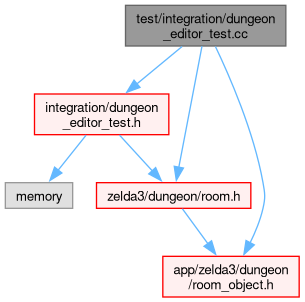
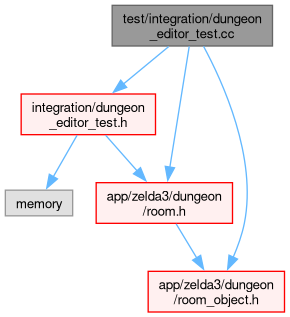
docs: update API documentation be7303ea5b73fdc7f19fa763a2191f4e53ff13f8

Changed region(s): [[0.0, 0.0, 0.9931, 1.0]]

diff --git a/d7/d87/dungeon__editor__test_8cc.html b/d7/d87/dungeon__editor__test_8cc.html
@@ -112,17 +112,17 @@ Include dependency graph for dungeon_editor_test.cc:</div>
 <div class="dyncontent">
 <div class="center"><img src="../../dc/d24/dungeon__editor__test_8cc__incl.png" border="0" usemap="#atest_2integration_2dungeon__editor__test_8cc" alt=""/></div>
 <map name="atest_2integration_2dungeon__editor__test_8cc" id="atest_2integration_2dungeon__editor__test_8cc">
-<area shape="rect" title=" " alt="" coords="126,5,286,46"/>
-<area shape="rect" href="../../d8/d90/dungeon__editor__test_8h.html" title=" " alt="" coords="35,94,169,135"/>
-<area shape="poly" title=" " alt="" coords="184,49,138,86,135,82,180,44"/>
-<area shape="rect" href="../../d9/dc0/room_8h.html" title=" " alt="" coords="97,183,251,208"/>
-<area shape="poly" title=" " alt="" coords="205,47,181,168,176,167,199,46"/>
-<area shape="rect" href="../../d0/dff/room__object_8h.html" title=" " alt="" coords="163,256,299,297"/>
-<area shape="poly" title=" " alt="" coords="218,45,243,105,256,143,266,182,266,209,253,244,248,242,260,208,260,183,251,145,238,107,213,48"/>
-<area shape="rect" title=" " alt="" coords="5,183,73,208"/>
-<area shape="poly" title=" " alt="" coords="88,137,60,172,56,169,84,133"/>
-<area shape="poly" title=" " alt="" coords="121,133,154,169,150,173,117,137"/>
-<area shape="poly" title=" " alt="" coords="185,207,210,242,206,245,180,210"/>
+<area shape="rect" title=" " alt="" coords="112,5,273,46"/>
+<area shape="rect" href="../../d8/d90/dungeon__editor__test_8h.html" title=" " alt="" coords="21,94,156,135"/>
+<area shape="poly" title=" " alt="" coords="170,49,125,86,122,82,167,44"/>
+<area shape="rect" href="../../d9/dc0/room_8h.html" title=" " alt="" coords="96,183,233,223"/>
+<area shape="poly" title=" " alt="" coords="192,47,173,168,167,167,187,46"/>
+<area shape="rect" href="../../d0/dff/room__object_8h.html" title=" " alt="" coords="148,271,285,312"/>
+<area shape="poly" title=" " alt="" coords="206,45,222,78,239,123,249,173,250,198,247,224,236,258,231,256,242,223,244,198,244,173,233,124,217,81,201,47"/>
+<area shape="rect" title=" " alt="" coords="5,190,73,216"/>
+<area shape="poly" title=" " alt="" coords="79,137,55,178,51,176,75,134"/>
+<area shape="poly" title=" " alt="" coords="108,133,139,169,135,173,104,137"/>
+<area shape="poly" title=" " alt="" coords="178,222,199,257,195,259,174,225"/>
 </map>
 </div>
 </div>

diff --git a/db/d30/sprite__editor_8cc_source.html b/db/d30/sprite__editor_8cc_source.html
@@ -104,7 +104,7 @@ $(document).ready(function(){initNavTree('db/d30/sprite__editor_8cc_source.html'
 <a href="../../db/d30/sprite__editor_8cc.html">Go to the documentation of this file.</a><div class="fragment"><div class="line"><a id="l00001" name="l00001"></a><span class="lineno">    1</span><span class="preprocessor">#include &quot;<a class="code" href="../../d7/d6f/sprite__editor_8h.html">sprite_editor.h</a>&quot;</span></div>
 <div class="line"><a id="l00002" name="l00002"></a><span class="lineno">    2</span> </div>
 <div class="line"><a id="l00003" name="l00003"></a><span class="lineno">    3</span><span class="preprocessor">#include &quot;<a class="code" href="../../dd/db2/performance__profiler_8h.html">app/gfx/performance/performance_profiler.h</a>&quot;</span></div>
-<div class="line"><a id="l00004" name="l00004"></a><span class="lineno">    4</span><span class="preprocessor">#include &quot;<a class="code" href="../../d1/d95/ui__helpers_8h.html">gui/ui_helpers.h</a>&quot;</span></div>
+<div class="line"><a id="l00004" name="l00004"></a><span class="lineno">    4</span><span class="preprocessor">#include &quot;<a class="code" href="../../d1/d95/ui__helpers_8h.html">app/gui/ui_helpers.h</a>&quot;</span></div>
 <div class="line"><a id="l00005" name="l00005"></a><span class="lineno">    5</span><span class="preprocessor">#include &quot;<a class="code" href="../../d0/dae/file__util_8h.html">util/file_util.h</a>&quot;</span></div>
 <div class="line"><a id="l00006" name="l00006"></a><span class="lineno">    6</span><span class="preprocessor">#include &quot;<a class="code" href="../../d4/d70/zsprite_8h.html">app/editor/sprite/zsprite.h</a>&quot;</span></div>
 <div class="line"><a id="l00007" name="l00007"></a><span class="lineno">    7</span><span class="preprocessor">#include &quot;<a class="code" href="../../da/d0c/arena_8h.html">app/gfx/arena.h</a>&quot;</span></div>

diff --git a/d4/dbe/graphics__editor_8cc_source.html b/d4/dbe/graphics__editor_8cc_source.html
@@ -108,7 +108,7 @@ $(document).ready(function(){initNavTree('d4/dbe/graphics__editor_8cc_source.htm
 <div class="line"><a id="l00005" name="l00005"></a><span class="lineno">    5</span><span class="preprocessor">#include &quot;absl/status/status.h&quot;</span></div>
 <div class="line"><a id="l00006" name="l00006"></a><span class="lineno">    6</span><span class="preprocessor">#include &quot;absl/status/statusor.h&quot;</span></div>
 <div class="line"><a id="l00007" name="l00007"></a><span class="lineno">    7</span><span class="preprocessor">#include &quot;absl/strings/str_cat.h&quot;</span></div>
-<div class="line"><a id="l00008" name="l00008"></a><span class="lineno">    8</span><span class="preprocessor">#include &quot;<a class="code" href="../../d1/d95/ui__helpers_8h.html">gui/ui_helpers.h</a>&quot;</span></div>
+<div class="line"><a id="l00008" name="l00008"></a><span class="lineno">    8</span><span class="preprocessor">#include &quot;<a class="code" href="../../d1/d95/ui__helpers_8h.html">app/gui/ui_helpers.h</a>&quot;</span></div>
 <div class="line"><a id="l00009" name="l00009"></a><span class="lineno">    9</span><span class="preprocessor">#include &quot;<a class="code" href="../../d0/dae/file__util_8h.html">util/file_util.h</a>&quot;</span></div>
 <div class="line"><a id="l00010" name="l00010"></a><span class="lineno">   10</span><span class="preprocessor">#include &quot;<a class="code" href="../../d3/df1/window_8h.html">app/core/window.h</a>&quot;</span></div>
 <div class="line"><a id="l00011" name="l00011"></a><span class="lineno">   11</span><span class="preprocessor">#include &quot;<a class="code" href="../../da/d0c/arena_8h.html">app/gfx/arena.h</a>&quot;</span></div>

diff --git a/d9/d47/message__editor_8cc_source.html b/d9/d47/message__editor_8cc_source.html
@@ -118,7 +118,7 @@ $(document).ready(function(){initNavTree('d9/d47/message__editor_8cc_source.html
 <div class="line"><a id="l00015" name="l00015"></a><span class="lineno">   15</span><span class="preprocessor">#include &quot;<a class="code" href="../../d4/dcf/canvas_8h.html">app/gui/canvas.h</a>&quot;</span></div>
 <div class="line"><a id="l00016" name="l00016"></a><span class="lineno">   16</span><span class="preprocessor">#include &quot;<a class="code" href="../../de/d12/style_8h.html">app/gui/style.h</a>&quot;</span></div>
 <div class="line"><a id="l00017" name="l00017"></a><span class="lineno">   17</span><span class="preprocessor">#include &quot;<a class="code" href="../../da/de5/rom_8h.html">app/rom.h</a>&quot;</span></div>
-<div class="line"><a id="l00018" name="l00018"></a><span class="lineno">   18</span><span class="preprocessor">#include &quot;<a class="code" href="../../de/ded/input_8h.html">gui/input.h</a>&quot;</span></div>
+<div class="line"><a id="l00018" name="l00018"></a><span class="lineno">   18</span><span class="preprocessor">#include &quot;<a class="code" href="../../de/ded/input_8h.html">app/gui/input.h</a>&quot;</span></div>
 <div class="line"><a id="l00019" name="l00019"></a><span class="lineno">   19</span><span class="preprocessor">#include &quot;imgui.h&quot;</span></div>
 <div class="line"><a id="l00020" name="l00020"></a><span class="lineno">   20</span><span class="preprocessor">#include &quot;imgui/misc/cpp/imgui_stdlib.h&quot;</span></div>
 <div class="line"><a id="l00021" name="l00021"></a><span class="lineno">   21</span><span class="preprocessor">#include &quot;<a class="code" href="../../d0/d84/hex_8h.html">util/hex.h</a>&quot;</span></div>

diff --git a/d1/dee/editor_2agent_2agent__chat__widget_8h_source.html b/d1/dee/editor_2agent_2agent__chat__widget_8h_source.html
@@ -118,7 +118,7 @@ $(document).ready(function(){initNavTree('d1/dee/editor_2agent_2agent__chat__wid
 <div class="line"><a id="l00015" name="l00015"></a><span class="lineno">   15</span><span class="preprocessor">#include &quot;<a class="code" href="../../db/d6c/advanced__routing_8h.html">cli/service/agent/advanced_routing.h</a>&quot;</span></div>
 <div class="line"><a id="l00016" name="l00016"></a><span class="lineno">   16</span><span class="preprocessor">#include &quot;<a class="code" href="../../df/dfb/agent__pretraining_8h.html">cli/service/agent/agent_pretraining.h</a>&quot;</span></div>
 <div class="line"><a id="l00017" name="l00017"></a><span class="lineno">   17</span><span class="preprocessor">#include &quot;<a class="code" href="../../d4/db3/prompt__manager_8h.html">cli/service/agent/prompt_manager.h</a>&quot;</span></div>
-<div class="line"><a id="l00018" name="l00018"></a><span class="lineno">   18</span><span class="preprocessor">#include &quot;<a class="code" href="../../dc/d8d/project_8h.html">core/project.h</a>&quot;</span></div>
+<div class="line"><a id="l00018" name="l00018"></a><span class="lineno">   18</span><span class="preprocessor">#include &quot;<a class="code" href="../../dc/d8d/project_8h.html">app/core/project.h</a>&quot;</span></div>
 <div class="line"><a id="l00019" name="l00019"></a><span class="lineno">   19</span> </div>
 <div class="line"><a id="l00020" name="l00020"></a><span class="lineno">   20</span><span class="keyword">namespace </span><a class="code hl_namespace" href="../../dc/d46/namespaceyaze.html">yaze</a> {</div>
 <div class="line"><a id="l00021" name="l00021"></a><span class="lineno">   21</span> </div>

diff --git a/d2/d24/dungeon__room__selector_8h_source.html b/d2/d24/dungeon__room__selector_8h_source.html
@@ -108,7 +108,7 @@ $(document).ready(function(){initNavTree('d2/d24/dungeon__room__selector_8h_sour
 <div class="line"><a id="l00005" name="l00005"></a><span class="lineno">    5</span><span class="preprocessor">#include &quot;imgui/imgui.h&quot;</span></div>
 <div class="line"><a id="l00006" name="l00006"></a><span class="lineno">    6</span><span class="preprocessor">#include &quot;<a class="code" href="../../da/de5/rom_8h.html">app/rom.h</a>&quot;</span></div>
 <div class="line"><a id="l00007" name="l00007"></a><span class="lineno">    7</span><span class="preprocessor">#include &quot;<a class="code" href="../../d1/d8a/room__entrance_8h.html">app/zelda3/dungeon/room_entrance.h</a>&quot;</span></div>
-<div class="line"><a id="l00008" name="l00008"></a><span class="lineno">    8</span><span class="preprocessor">#include &quot;<a class="code" href="../../d9/dc0/room_8h.html">zelda3/dungeon/room.h</a>&quot;</span></div>
+<div class="line"><a id="l00008" name="l00008"></a><span class="lineno">    8</span><span class="preprocessor">#include &quot;<a class="code" href="../../d9/dc0/room_8h.html">app/zelda3/dungeon/room.h</a>&quot;</span></div>
 <div class="line"><a id="l00009" name="l00009"></a><span class="lineno">    9</span> </div>
 <div class="line"><a id="l00010" name="l00010"></a><span class="lineno">   10</span><span class="keyword">namespace </span><a class="code hl_namespace" href="../../dc/d46/namespaceyaze.html">yaze</a> {</div>
 <div class="line"><a id="l00011" name="l00011"></a><span class="lineno">   11</span><span class="keyword">namespace </span>editor {</div>

diff --git a/db/d30/sprite__editor_8cc.html b/db/d30/sprite__editor_8cc.html
@@ -105,7 +105,7 @@ $(document).ready(function(){initNavTree('db/d30/sprite__editor_8cc.html','../..
 <div class="contents">
 <div class="textblock"><code>#include &quot;<a class="el" href="../../d7/d6f/sprite__editor_8h_source.html">sprite_editor.h</a>&quot;</code><br />
 <code>#include &quot;<a class="el" href="../../dd/db2/performance__profiler_8h_source.html">app/gfx/performance/performance_profiler.h</a>&quot;</code><br />
-<code>#include &quot;<a class="el" href="../../d1/d95/ui__helpers_8h_source.html">gui/ui_helpers.h</a>&quot;</code><br />
+<code>#include &quot;<a class="el" href="../../d1/d95/ui__helpers_8h_source.html">app/gui/ui_helpers.h</a>&quot;</code><br />
 <code>#include &quot;<a class="el" href="../../d0/dae/file__util_8h_source.html">util/file_util.h</a>&quot;</code><br />
 <code>#include &quot;<a class="el" href="../../d4/d70/zsprite_8h_source.html">app/editor/sprite/zsprite.h</a>&quot;</code><br />
 <code>#include &quot;<a class="el" href="../../da/d0c/arena_8h_source.html">app/gfx/arena.h</a>&quot;</code><br />

diff --git a/d1/dee/editor_2agent_2agent__chat__widget_8h.html b/d1/dee/editor_2agent_2agent__chat__widget_8h.html
@@ -117,7 +117,7 @@ $(document).ready(function(){initNavTree('d1/dee/editor_2agent_2agent__chat__wid
 <code>#include &quot;<a class="el" href="../../db/d6c/advanced__routing_8h_source.html">cli/service/agent/advanced_routing.h</a>&quot;</code><br />
 <code>#include &quot;<a class="el" href="../../df/dfb/agent__pretraining_8h_source.html">cli/service/agent/agent_pretraining.h</a>&quot;</code><br />
 <code>#include &quot;<a class="el" href="../../d4/db3/prompt__manager_8h_source.html">cli/service/agent/prompt_manager.h</a>&quot;</code><br />
-<code>#include &quot;<a class="el" href="../../dc/d8d/project_8h_source.html">core/project.h</a>&quot;</code><br />
+<code>#include &quot;<a class="el" href="../../dc/d8d/project_8h_source.html">app/core/project.h</a>&quot;</code><br />
 </div><div class="textblock"><div class="dynheader">
 This graph shows which files directly or indirectly include this file:</div>
 <div class="dyncontent">

diff --git a/d9/d47/message__editor_8cc.html b/d9/d47/message__editor_8cc.html
@@ -120,7 +120,7 @@ $(document).ready(function(){initNavTree('d9/d47/message__editor_8cc.html','../.
 <code>#include &quot;<a class="el" href="../../d4/dcf/canvas_8h_source.html">app/gui/canvas.h</a>&quot;</code><br />
 <code>#include &quot;<a class="el" href="../../de/d12/style_8h_source.html">app/gui/style.h</a>&quot;</code><br />
 <code>#include &quot;<a class="el" href="../../da/de5/rom_8h_source.html">app/rom.h</a>&quot;</code><br />
-<code>#include &quot;<a class="el" href="../../de/ded/input_8h_source.html">gui/input.h</a>&quot;</code><br />
+<code>#include &quot;<a class="el" href="../../de/ded/input_8h_source.html">app/gui/input.h</a>&quot;</code><br />
 <code>#include &quot;imgui.h&quot;</code><br />
 <code>#include &quot;imgui/misc/cpp/imgui_stdlib.h&quot;</code><br />
 <code>#include &quot;<a class="el" href="../../d0/d84/hex_8h_source.html">util/hex.h</a>&quot;</code><br />

diff --git a/d4/dbe/graphics__editor_8cc.html b/d4/dbe/graphics__editor_8cc.html
@@ -109,7 +109,7 @@ $(document).ready(function(){initNavTree('d4/dbe/graphics__editor_8cc.html','../
 <code>#include &quot;absl/status/status.h&quot;</code><br />
 <code>#include &quot;absl/status/statusor.h&quot;</code><br />
 <code>#include &quot;absl/strings/str_cat.h&quot;</code><br />
-<code>#include &quot;<a class="el" href="../../d1/d95/ui__helpers_8h_source.html">gui/ui_helpers.h</a>&quot;</code><br />
+<code>#include &quot;<a class="el" href="../../d1/d95/ui__helpers_8h_source.html">app/gui/ui_helpers.h</a>&quot;</code><br />
 <code>#include &quot;<a class="el" href="../../d0/dae/file__util_8h_source.html">util/file_util.h</a>&quot;</code><br />
 <code>#include &quot;<a class="el" href="../../d3/df1/window_8h_source.html">app/core/window.h</a>&quot;</code><br />
 <code>#include &quot;<a class="el" href="../../da/d0c/arena_8h_source.html">app/gfx/arena.h</a>&quot;</code><br />

diff --git a/d2/d24/dungeon__room__selector_8h.html b/d2/d24/dungeon__room__selector_8h.html
@@ -108,7 +108,7 @@ $(document).ready(function(){initNavTree('d2/d24/dungeon__room__selector_8h.html
 <code>#include &quot;imgui/imgui.h&quot;</code><br />
 <code>#include &quot;<a class="el" href="../../da/de5/rom_8h_source.html">app/rom.h</a>&quot;</code><br />
 <code>#include &quot;<a class="el" href="../../d1/d8a/room__entrance_8h_source.html">app/zelda3/dungeon/room_entrance.h</a>&quot;</code><br />
-<code>#include &quot;<a class="el" href="../../d9/dc0/room_8h_source.html">zelda3/dungeon/room.h</a>&quot;</code><br />
+<code>#include &quot;<a class="el" href="../../d9/dc0/room_8h_source.html">app/zelda3/dungeon/room.h</a>&quot;</code><br />
 </div><div class="textblock"><div class="dynheader">
 This graph shows which files directly or indirectly include this file:</div>
 <div class="dyncontent">
